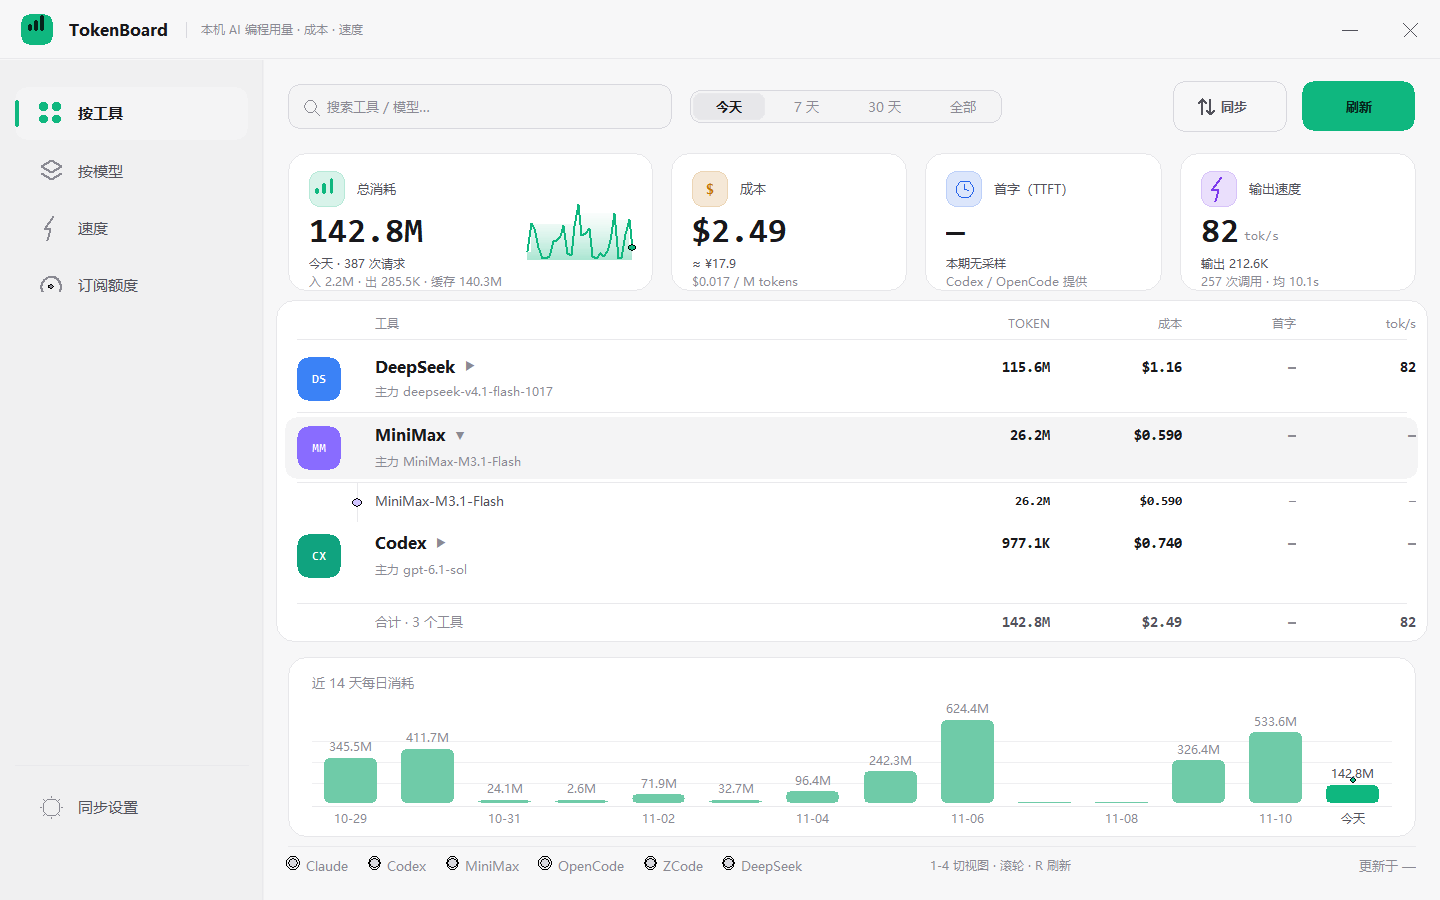
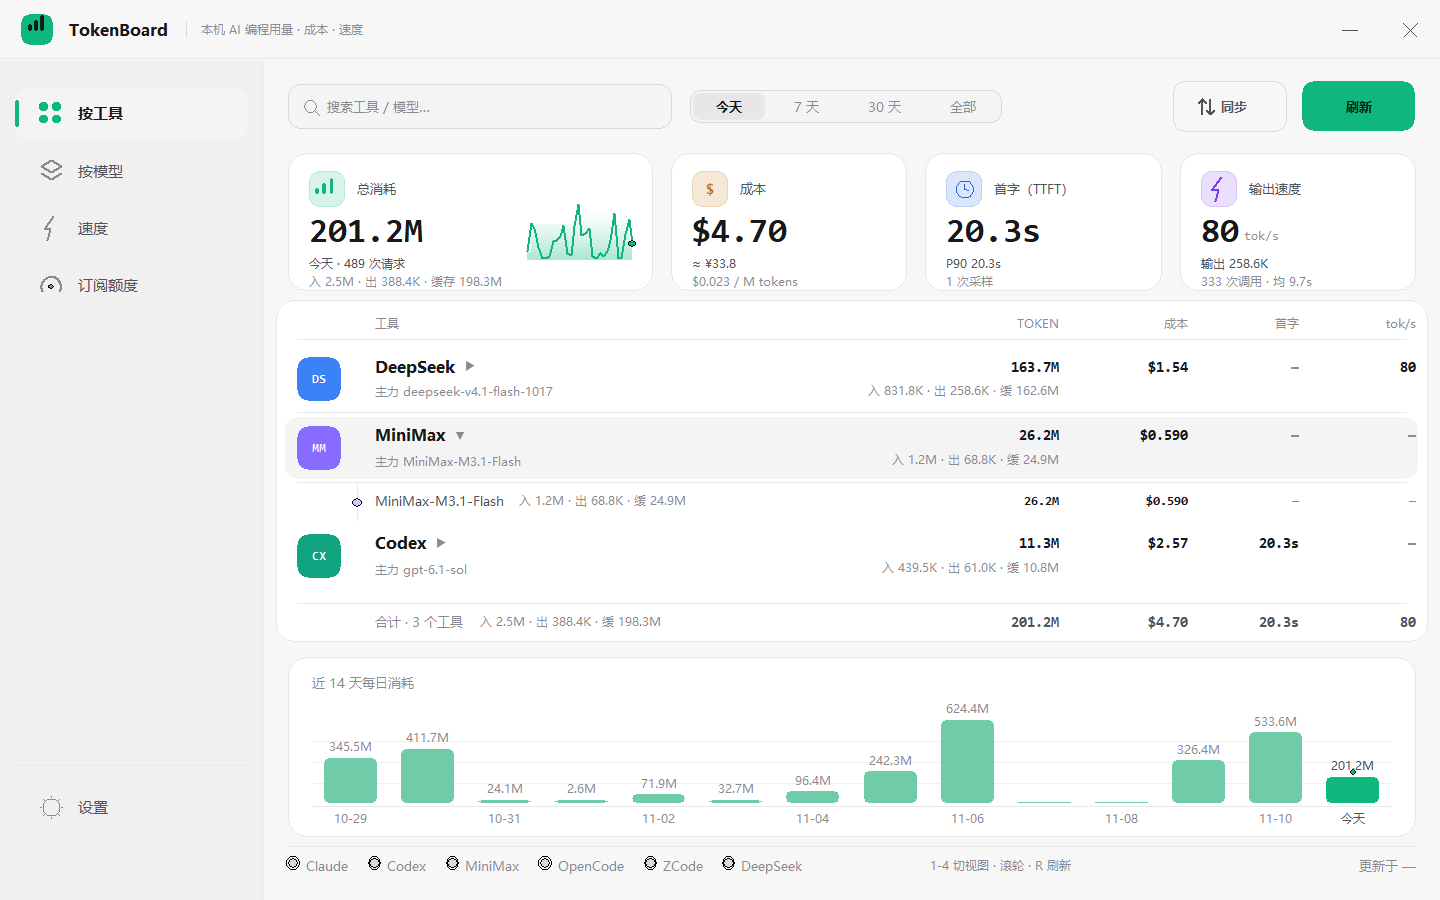
feat(ui): 明细表每行展示 输入/输出/缓存 拆分
之前只有顶部「总消耗」卡片有 入/出/缓存，明细表每行只有一个合计。

- store: summary_by_model / models_by_app / apps_by_model 增加
  input_tokens、output_tokens、cache_read_tokens 的聚合
- panel: TOKEN 列加宽，主行改成两行 —— 上排合计，下排「入 x · 出 y · 缓 z」
- 展开后的子行在名字后面接同样一段拆分；「合计」行也带上
- README 更新布局示意

diff --git a/tokenboard/ui/panel.py b/tokenboard/ui/panel.py
@@ -83,8 +83,8 @@ TILE = 30              # 左侧品牌色图标块
 NAME_W = 190
 
 # 右侧四个数值列（从右往左排）
-COL_W = (72, 76, 64, 68)     # token / 成本 / 首字 / 速度
-COL_GAP = 12
+COL_W = (132, 76, 64, 68)    # token / 成本 / 首字 / 速度（token 列两行：合计 + 输入/输出/缓存）
+COL_GAP = 10
 
 # 自绘标题栏按钮
 TB_BTN_W = 40
@@ -273,6 +273,11 @@ def fmt_ms(ms: float) -> str:
 def fmt_tps(v: float) -> str:
     v = float(v or 0)
     return f"{v:.0f}" if v > 0 else "—"
+
+
+def fmt_io(inp: float, out: float, cache: float) -> str:
+    """一行放得下的「输入 / 输出 / 缓存」拆分。"""
+    return (f"入 {fmt_tokens(inp)} · 出 {fmt_tokens(out)} · 缓 {fmt_tokens(cache)}")
 
 
 def fmt_until(ms: int) -> str:
@@ -516,6 +521,8 @@ class Panel(Window):
                 "name": APP_META[app].get("short", app_label(app)),
                 "sub": sub, "color": app_color(app), "open": open_,
                 "glyph": APP_META[app].get("icon", app[:2].upper()),
+                "detail": fmt_io(r["input_tokens"], r["output_tokens"],
+                                 r["cache_read_tokens"]),
                 "bar": tokens / max_t,
                 "cells": [
                     self._cell(fmt_tokens(tokens), True),
@@ -532,6 +539,8 @@ class Panel(Window):
                 self._rows.append({
                     "kind": "sub", "key": app, "name": m["name"],
                     "color": app_color(app),
+                    "detail": fmt_io(m.get("input"), m.get("output"),
+                                     m.get("cache")),
                     "bar": (m["tokens"] or 0) / max_t,
                     "cells": [
                         self._cell(fmt_tokens(m["tokens"]), True),
@@ -562,6 +571,8 @@ class Panel(Window):
                 "kind": "model", "key": key, "name": m["name"],
                 "sub": sub, "color": app_color(m["app"]), "open": open_,
                 "glyph": (m["name"] or key)[:2].upper(),
+                "detail": fmt_io(m["input_tokens"], m["output_tokens"],
+                                 m["cache_read_tokens"]),
                 "bar": (m["total_tokens"] or 0) / max_t,
                 "cells": [
                     self._cell(fmt_tokens(m["total_tokens"]), True),
@@ -578,6 +589,8 @@ class Panel(Window):
                 self._rows.append({
                     "kind": "sub", "key": key, "name": app_label(a["app"]),
                     "color": app_color(a["app"]),
+                    "detail": fmt_io(a.get("input"), a.get("output"),
+                                     a.get("cache")),
                     "bar": (a["tokens"] or 0) / max_t,
                     "cells": [
                         self._cell(fmt_tokens(a["tokens"]), True),
@@ -1463,8 +1476,16 @@ class Panel(Window):
         # （只数主行，展开出来的模型子行不算）
         unit = "个工具" if self._view_idx == 0 else "个模型"
         n_main = sum(1 for r in self._rows if r["kind"] in ("app", "model", "srow"))
-        c.text(NAME_X, y + 5, 200, 16, f"合计 · {n_main} {unit}",
+        label = f"合计 · {n_main} {unit}"
+        lw, _ = c.measure(label, self.f_meta)
+        c.text(NAME_X, y + 5, 200, 16, label,
                self.f_meta, TEXT_3, align=DT_L | DT_VC | DT_SL)
+        # 合计行也带上输入/输出/缓存的拆分，和每行的口径保持一致
+        detail = fmt_io(t.get("input"), t.get("output"), t.get("cache"))
+        dx = NAME_X + lw + 12
+        if BAR_END - dx > 110:
+            c.text(dx, y + 5, BAR_END - dx - 6, 15, detail,
+                   self.f_tiny, TEXT_3, align=DT_L | DT_VC | DT_SL)
 
         if self._view_idx == 2:      # 速度视图：首字 / tok/s / 输出 / 样本
             cells = [
@@ -1611,12 +1632,25 @@ class Panel(Window):
                       mix(SURFACE, color, 0.35))
             c.text(NAME_X, y + 4, NAME_W, 16, row["name"], self.f_small,
                    TEXT_2, align=DT_L | DT_VC | DT_SL)
+            # 子行只有一行高：输入/输出/缓存接在名字后面，灰色小字
+            if row.get("detail"):
+                nw, _ = c.measure(row["name"], self.f_small)
+                dx = NAME_X + nw + 10
+                avail = BAR_END - dx - 6
+                if avail > 90:
+                    c.text(dx, y + 4, avail, 16, row["detail"], self.f_tiny,
+                           TEXT_3, align=DT_L | DT_VC | DT_SL)
             cy, chh = y + 4, 16
             font = self.f_cell_s
 
         for i, (text, col) in enumerate(row["cells"]):
             c.text(COL_X[i], cy, COL_W[i], chh, text, font, col,
                    align=DT_R | DT_VC | DT_SL)
+            # 主行的第一列（TOKEN）下面再挂一行输入/输出/缓存拆分
+            if i == 0 and main and row.get("detail"):
+                c.text(COL_X[i], y + 24, COL_W[i], 13,
+                       row["detail"], self.f_tiny, TEXT_3,
+                       align=DT_R | DT_VC | DT_SL)
 
     # ---- 订阅额度 ----------------------------------------------------
     def _quota_blocks(self) -> list[tuple[dict, float]]:

diff --git a/tokenboard/store.py b/tokenboard/store.py
@@ -415,9 +415,13 @@ class Store:
                          limit: int = 50) -> list[dict]:
         sql = [
             "SELECT app, model,",
-            "  COUNT(*)          AS requests,",
-            "  SUM(total_tokens) AS total_tokens,",
-            "  SUM(cost_usd)     AS cost_usd",
+            "  COUNT(*)               AS requests,",
+            "  SUM(total_tokens)      AS total_tokens,",
+            "  SUM(input_tokens)      AS input_tokens,",
+            "  SUM(output_tokens)     AS output_tokens,",
+            "  SUM(cache_read_tokens) AS cache_read_tokens,",
+            "  SUM(cache_write_tokens)AS cache_write_tokens,",
+            "  SUM(cost_usd)          AS cost_usd",
             "FROM usage_events WHERE total_tokens > 0",
         ]
         params: list = []
@@ -433,7 +437,7 @@ class Store:
             return [dict(r) for r in self.conn.execute(" ".join(sql), params)]
 
     def models_by_app(self, since_day: str | None = None) -> dict[str, list[dict]]:
-        """app -> 该应用下各模型的用量（同名模型已合并）。"""
+        """app -> 该应用下各模型的用量（同名模型已合并，带输入/输出/缓存拆分）。"""
         rows = self.summary_by_model(since_day=since_day, limit=100000)
         out: dict[str, dict[str, dict]] = {}
         for r in rows:
@@ -442,11 +446,16 @@ class Store:
             g = out.setdefault(app, {}).setdefault(key, {
                 "key": key,
                 "name": model_display(r["model"]),
-                "tokens": 0, "requests": 0, "cost": 0.0, "models": set(),
+                "tokens": 0, "requests": 0, "cost": 0.0,
+                "input": 0, "output": 0, "cache": 0,
+                "models": set(),
             })
             g["tokens"] += r["total_tokens"] or 0
             g["requests"] += r["requests"] or 0
             g["cost"] += r["cost_usd"] or 0.0
+            g["input"] += r["input_tokens"] or 0
+            g["output"] += r["output_tokens"] or 0
+            g["cache"] += r["cache_read_tokens"] or 0
             g["models"].add(r["model"])
         result: dict[str, list[dict]] = {}
         for app, groups in out.items():
@@ -456,6 +465,9 @@ class Store:
                 "tokens": g["tokens"],
                 "requests": g["requests"],
                 "cost": g["cost"],
+                "input": g["input"],
+                "output": g["output"],
+                "cache": g["cache"],
                 "aliases": len(g["models"]),
             } for g in groups.values()]
             lst.sort(key=lambda x: -x["tokens"])
@@ -473,10 +485,14 @@ class Store:
                 "app": app,
                 "name": model_display(r["model"]),
                 "tokens": 0, "requests": 0, "cost": 0.0,
+                "input": 0, "output": 0, "cache": 0,
             })
             g["tokens"] += r["total_tokens"] or 0
             g["requests"] += r["requests"] or 0
             g["cost"] += r["cost_usd"] or 0.0
+            g["input"] += r["input_tokens"] or 0
+            g["output"] += r["output_tokens"] or 0
+            g["cache"] += r["cache_read_tokens"] or 0
         result: dict[str, list[dict]] = {}
         for key, groups in out.items():
             lst = list(groups.values())

diff --git a/README.md b/README.md
@@ -104,8 +104,9 @@ python -m tokenboard.app
 │ 按模型   │ ┌ 总消耗 ─┐ ┌ 成本 ─┐ ┌ 首字 ─┐ ┌ 输出速度 ┐          │
 │ 速度     │ │ 67.1M ╱╲ │ │$0.99  │ │  —    │ │ 100 tok/s│          │
 │ 订阅额度 │ └─────────┘ └───────┘ └───────┘ └──────────┘          │
-│          │  [■蓝] DeepSeek        55.0M   $0.678    —    100     │
-│          │  [■紫] MiniMax         12.1M   $0.309    —      —     │
+│          │  [■蓝] DeepSeek      163.7M  $1.54   —    80          │
+│          │        入 831.8K·出 258.6K·缓 162.6M                   │
+│          │  [■紫] MiniMax        26.2M  $0.590  —     —          │
 │ 设置     │  ● Claude ● Codex ● MiniMax …          更新于 09:07    │
 └──────────────────────────────────────────────────────────────────┘
 ```
@@ -113,6 +114,8 @@ python -m tokenboard.app
 - **左侧导航**：按工具 / 按模型 / 速度 / 订阅额度，底部「设置」（外观 + WebDAV 云同步），
   也可以直接按 `1`-`4` 切换。
 - **顶部工具栏**：搜索框（工具名 / 模型名实时过滤）、时间范围、同步、刷新。
+- **每个工具的 TOKEN 下面还有一行 `入 / 出 / 缓` 拆分**（输入、输出、缓存读），
+  子行和「合计」行同样带拆分，口径与顶部指标卡一致。
 - **每行左侧的品牌色图标块**（蓝=DeepSeek、紫=MiniMax……）取各工具自己的品牌色，
   和参考界面里 host 卡的图标块同一套读法：颜色即身份。
 
